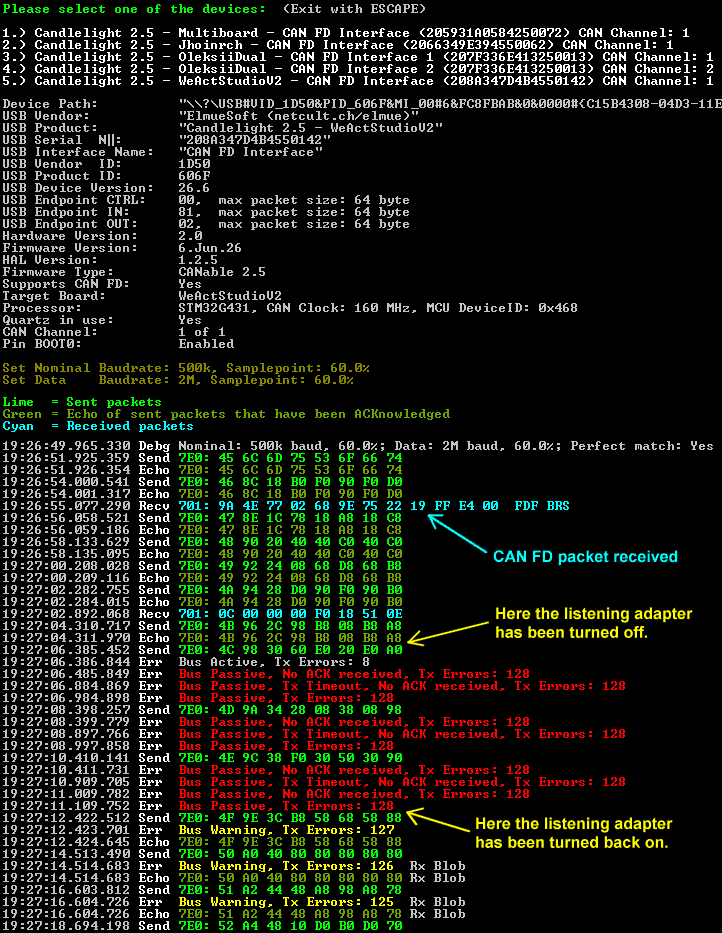
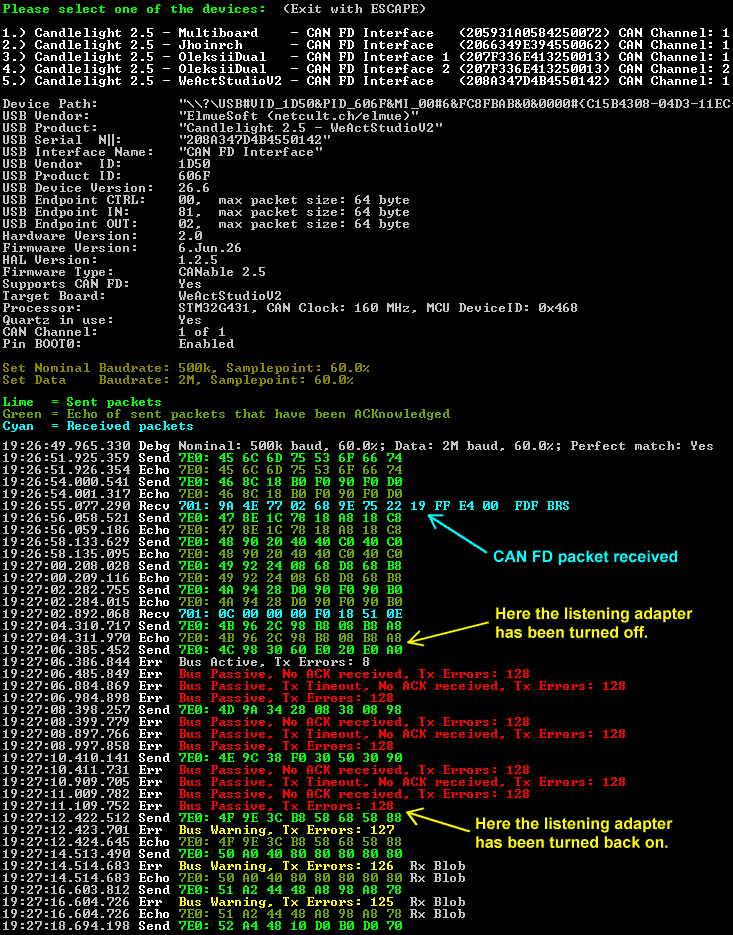
C++ demo ready for Linux

Changed region(s): [[0.0, 0.0, 1.0, 1.0], [0.6704, 0.5906, 0.9446, 0.6217]]

diff --git a/User & Developer Manual.htm b/User & Developer Manual.htm
@@ -1819,7 +1819,7 @@
 <p>
 <div>This is the output of the C++ and C# demo applications on <b>Windows</b>:</div>
 <p>
-<img src="Images/Candlelight Cpp demo.png" alt="Candlelight demo project" width="722" height="933">
+<img src="Images/Candlelight Cpp demo.png" alt="Candlelight demo project" width="733" height="935">
 <p>
 
 <a name="Candle_NewProto"></a>

diff --git a/SampleApplication C++/Source/CANableDemo.cpp b/SampleApplication C++/Source/CANableDemo.cpp
@@ -66,6 +66,7 @@ void CandlelightDemo();
 void DfuDemo();
 bool OpenDevice();
 void FlashMemoryTest();
+void PrintDeviceMenu(vector<kUsbDevice>& i_Devices);
 
 // global instances
 Candlelight gi_Candle;
@@ -452,17 +453,7 @@ bool OpenDevice()
             OsLibrary::PrintConsole(LIME, "\nPlease select one of the devices:");
             OsLibrary::PrintConsole(GREY, "  (Exit with ESCAPE)\n\n");
 
-            for (size_t i=0; i<i_Devices.size(); i++)
-            {
-                kUsbDevice k_Device = i_Devices[i];
-                OsLibrary::PrintConsole(WHITE, "%u.) %s (%s)", i+1, k_Device.DisplayName().c_str(), k_Device.ms_SerialNo.c_str());
-
-                int s32_Channel = k_Device.GetCanChannel();
-                if (s32_Channel > 0) // Firmware Update interfaces have no channels
-                    OsLibrary::PrintConsole(WHITE, " CAN Channel: %d", s32_Channel);
-
-                OsLibrary::PrintConsole(WHITE, "\n");
-            }
+            PrintDeviceMenu(i_Devices);
 
             int s32_Char = OsLibrary::WaitConsoleChar();
             if (s32_Char == 27) // ESCAPE key pressed
@@ -499,6 +490,41 @@ bool OpenDevice()
         return false;
     }
     return true;
+}
+
+// Formatted output for each device: Product - Interface (Serial Number) CAN Channel
+void PrintDeviceMenu(vector<kUsbDevice>& i_Devices)
+{
+    uint32_t u32_ProductLen = 0;
+    uint32_t u32_SerialLen  = 0;
+    uint32_t u32_InterfLen  = 0;
+
+    for (size_t i=0; i<i_Devices.size(); i++)
+    {
+        kUsbDevice k_Device = i_Devices[i];
+        u32_ProductLen = max(u32_ProductLen, k_Device.ms_Product  .length());
+        u32_SerialLen  = max(u32_SerialLen,  k_Device.ms_SerialNo .length());
+        u32_InterfLen  = max(u32_InterfLen,  k_Device.ms_Interface.length());
+    }
+
+    for (size_t i=0; i<i_Devices.size(); i++)
+    {
+        kUsbDevice k_Device = i_Devices[i];
+        string s_SpaceProduct = string(u32_ProductLen - k_Device.ms_Product  .length(), ' ');
+        string s_SpaceSerial  = string(u32_SerialLen  - k_Device.ms_SerialNo .length(), ' ');
+        string s_SpaceInterf  = string(u32_InterfLen  - k_Device.ms_Interface.length(), ' ');
+
+        OsLibrary::PrintConsole(WHITE, "%u.) %s%s - %s%s (%s)%s", i+1, 
+                                k_Device.ms_Product  .c_str(), s_SpaceProduct.c_str(), 
+                                k_Device.ms_Interface.c_str(), s_SpaceInterf .c_str(),
+                                k_Device.ms_SerialNo .c_str(), s_SpaceSerial .c_str());
+
+        int s32_Channel = k_Device.GetCanChannel();
+        if (s32_Channel > 0) // Firmware Update interfaces have no channels
+            OsLibrary::PrintConsole(WHITE, " CAN Channel: %d", s32_Channel);
+
+        OsLibrary::PrintConsole(WHITE, "\n");
+    }
 }
 
 // ---------------------------------------------------------------------------------------------------------------------

diff --git a/SampleApplication C#/Source/CANableDemo.cs b/SampleApplication C#/Source/CANableDemo.cs
@@ -501,16 +501,7 @@ class Program
                 Print(ConsoleColor.Green, "\nPlease select one of the devices:");
                 Print(ConsoleColor.Gray,  "  (Exit with ESCAPE)\n\n");
 
-                for (int i=0; i<i_Devices.Count; i++)
-                {
-                    cUsbDevice i_Dev = i_Devices[i];
-                    Print(ConsoleColor.White, "{0}.) {1} ({2})", i+1, i_Dev.DisplayName, i_Dev.ms_SerialNo);
-
-                    if (CANDLELIGHT_DEMO) // DFU devices have no channels
-                        Print(ConsoleColor.White, " CAN Channel: {0}", i_Dev.ms32_Channel);
-
-                    Print(ConsoleColor.White, "\n");
-                }
+                PrintDeviceMenu(i_Devices);
 
                 ConsoleKeyInfo k_Key = Console.ReadKey(true);
                 if (k_Key.KeyChar == 27) // ESCAPE key pressed
@@ -557,6 +548,38 @@ class Program
         }
         return true;
     }
+
+    // Formatted output for each device: Product - Interface (Serial Number) CAN Channel
+    static void PrintDeviceMenu(List<cUsbDevice> i_Devices)
+    {
+        int s32_ProductLen = 0;
+        int s32_SerialLen  = 0;
+        int s32_InterfLen  = 0;
+
+        for (int i=0; i<i_Devices.Count; i++)
+        {
+            cUsbDevice i_Device = i_Devices[i];
+            s32_ProductLen = Math.Max(s32_ProductLen, i_Device.ms_Product  .Length);
+            s32_SerialLen  = Math.Max(s32_SerialLen,  i_Device.ms_SerialNo .Length);
+            s32_InterfLen  = Math.Max(s32_InterfLen,  i_Device.ms_Interface.Length);
+        }
+
+        for (int i=0; i<i_Devices.Count; i++)
+        {
+            cUsbDevice i_Device = i_Devices[i];
+            Print(ConsoleColor.White, "{0}.) {1}{2} - {3}{4} ({5}){6}", i+1, 
+                  i_Device.ms_Product,   new String(' ', s32_ProductLen - i_Device.ms_Product  .Length), 
+                  i_Device.ms_Interface, new String(' ', s32_InterfLen  - i_Device.ms_Interface.Length),
+                  i_Device.ms_SerialNo,  new String(' ', s32_SerialLen  - i_Device.ms_SerialNo .Length));
+
+            int s32_Channel = i_Device.GetCanChannel();
+            if (s32_Channel > 0) // Firmware Update interfaces have no channels
+                Print(ConsoleColor.White, " CAN Channel: {0}", s32_Channel);
+
+            Print(ConsoleColor.White, "\n");
+        }
+    }
+
 
     static void Print(ConsoleColor e_Color, String s_Format, params Object[] o_Param)
     {

diff --git a/SampleApplication C#/Source/Candlelight/SetupApi.cs b/SampleApplication C#/Source/Candlelight/SetupApi.cs
@@ -55,18 +55,17 @@ public class SetupApi
         public String ms_Interface;
         public String ms_DevPath;
         public String ms_SerialNo;
-        public int    ms32_Channel;
+        public int    ms32_Interface;
 
-        public String DisplayName
+        // The Firmware Update Interface (1) has no CAN channels --> return -1
+        // The Candlelight interfaces are 0,2,3,... --> display as CAN Channel 1,2,3,...
+        public int GetCanChannel()
         {
-            get
+            switch (ms32_Interface)
             {
-                // If a legacy Candlelight device does not expose a string in the Candlelight interface, 
-                // Windows returns the Product string instead --> both are identical
-                if (ms_Product == ms_Interface)
-                    return ms_Product;
-
-                return ms_Product + " - " + ms_Interface;
+                case 0:                                  return  1; // display one-based channel number           
+                case Candlelight.FIRMW_UPDATE_INTERFACE: return -1; // invalid
+                default:                                 return ms32_Interface;
             }
         }
 
@@ -80,7 +79,7 @@ public class SetupApi
             int s32_Diff = ms_SerialNo.CompareTo(i_Dev2.ms_SerialNo);
 
             if (s32_Diff == 0)
-                s32_Diff = ms32_Channel.CompareTo(i_Dev2.ms32_Channel);
+                s32_Diff = ms32_Interface.CompareTo(i_Dev2.ms32_Interface);
             
             return s32_Diff;
         }
@@ -277,19 +276,20 @@ public class SetupApi
             i_UsbDev.ms_Interface = s_InterfaceBuf.ToString();
             i_Serials.TryGetValue(s_ContainerBuf.ToString(), out i_UsbDev.ms_SerialNo);
 
+            // If a legacy Candlelight device does not expose a string in the Candlelight interface, 
+            // Windows returns the Product string instead --> both are identical ("canable gs_usb")
+            if (i_UsbDev.ms_Interface == i_UsbDev.ms_Product)
+                i_UsbDev.ms_Interface = "[N/A]";
+
             // Append interface number for multi-interface adapters
             int Pos = i_UsbDev.ms_DevPath.IndexOf("&MI_0");
             if (Pos > 0)
             {
-                if (int.TryParse(i_UsbDev.ms_DevPath.Substring(Pos + 5, 1), out i_UsbDev.ms32_Channel))
-                {
-                    // MI_00 --> Candlelight 1
-                    // MI_01 --> DFU
-                    // MI_02 --> Candlelight 2
-                    // MI_03 --> Candlelight 3
-                    if (i_UsbDev.ms32_Channel == 0)
-                        i_UsbDev.ms32_Channel = 1;  // display one-based interface number
-                }
+                // MI_00 --> CAN channel 1
+                // MI_01 --> Firmware Update
+                // MI_02 --> CAN channel 2
+                // MI_03 --> CAN channel 3
+                int.TryParse(i_UsbDev.ms_DevPath.Substring(Pos + 5, 1), out i_UsbDev.ms32_Interface);
             }
 
             i_DeviceList.Add(i_UsbDev);

diff --git a/SampleApplication C++/Source/Candlelight/Utils.h b/SampleApplication C++/Source/Candlelight/Utils.h
@@ -208,18 +208,6 @@ public:
         }
     }
 
-    // returns "Candlelight 2.5 - OleksiiDual - CAN FD Interface 2"
-    // returns "canable gs_usb" for a legacy device
-    string DisplayName()
-    {
-        // If a legacy Candlelight device does not expose a string in the Candlelight interface, 
-        // Windows returns the Product string instead --> both are identical
-        if (ms_Product == ms_Interface || ms_Interface.length() == 0)
-            return ms_Product;
-
-        return ms_Product + " - " + ms_Interface;
-    }
-
     // Sort by by Serial Number and then by Channel number
     bool operator<(const kUsbDevice& i_Dev2) const
     {

diff --git a/SampleApplication C#/Source/Candlelight/Candlelight.cs b/SampleApplication C#/Source/Candlelight/Candlelight.cs
@@ -847,13 +847,13 @@ public class Candlelight : IDisposable
 
     #endregion
 
+    // must be equal to FIRMW_UPDATE_INTERFACE in usb_class.h in the firmware
+    public const Byte FIRMW_UPDATE_INTERFACE = 1;
+
     // Adapt this to the latest available CANable 2.5 firmware version.
     // It shows an error to upload the latest firmware to the adapter.
     // The version number is BCD encoded (0x251218 = 18.dec.2025)
     const int MIN_FIRMWARE = 0x260606;
-
-    // must be equal to FIRMW_UPDATE_INTERFACE in usb_class.h in the firmware
-    const Byte FIRMW_UPDATE_INTERFACE = 1;
 
     // must be equal to MAX_BLOB_SIZE in candlelight_def.h in firmware
     const int MAX_BLOB_SIZE = 2048;

diff --git a/SampleApplication C++/Source/Candlelight/Windows/OsLibrary.cpp b/SampleApplication C++/Source/Candlelight/Windows/OsLibrary.cpp
@@ -564,6 +564,11 @@ uint32_t OsLibrary::EnumDevices(bool b_GetCandlelight, vector<kUsbDevice>* pi_De
         k_UsbDev.ms_DevicePath = cUtils::MakeUpper(pk_DetailData->DevicePath); // "\\?\usb#vid_1d50&pid_606f&mi_00#7&1b930f3c&0&0000#{c15b4308-04d3-11e6-b3ea-6057189e6443}"
         k_UsbDev.ms_SerialNo   = cUtils::MapLookup(i_Serials, cUtils::MakeUpper(s_Container));
 
+        // If a legacy Candlelight device does not expose a string in the Candlelight interface, 
+        // Windows returns the Product string instead --> both are identical ("canable gs_usb")
+        if (k_UsbDev.ms_Interface == k_UsbDev.ms_Product)
+            k_UsbDev.ms_Interface = "[N/A]";
+
         // Append interface number for multi-interface (MI) adapters
         int s32_Pos = (int)k_UsbDev.ms_DevicePath.find("&MI_0");
         if (s32_Pos > 0)